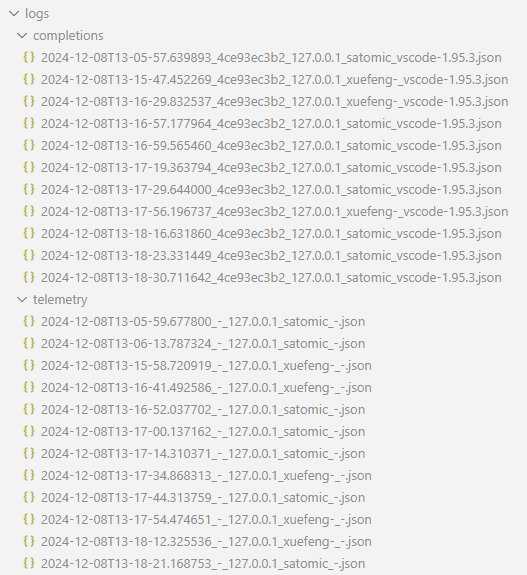
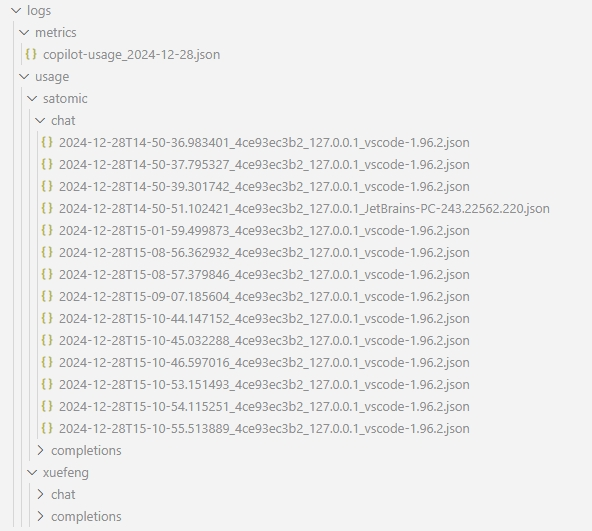
feature: Enhance proxy_addons.py to track usage metrics and save to separate files; refactor logging paths and update metrics handling

Changed region(s): [[0.0, 0.0, 0.9715, 0.9944]]

diff --git a/proxy_addons.py b/proxy_addons.py
@@ -56,6 +56,9 @@ class ProxyReqRspSaveToFile:
         self.loop = asyncio.get_event_loop()
         self.proxy_authorizations = {} 
         self.log_file_path = "logs"
+        self.usage_file_path = os.path.join(self.log_file_path, "usage")
+        self.metrics_file_path = os.path.join(self.log_file_path, "metrics")
+        self.current_date = datetime.utcnow().date()
         ctx.log.info("Initialized ProxyReqRspSaveToJson plugin")
 
     def requestheaders(self, flow: http.HTTPFlow):
@@ -86,6 +89,11 @@ class ProxyReqRspSaveToFile:
         asyncio.ensure_future(self.save_to_file(flow))
 
     async def save_to_file(self, flow: http.HTTPFlow):
+        # if "telemetry" not in flow.request.url:
+        #     print("completions=================================: ", flow.request.url)
+
+        self.current_date = datetime.utcnow().date()
+        self.metrics_file = os.path.join(self.metrics_file_path, f'copilot-usage_{self.current_date}.json')
 
         # Determine type, discard if not one of the two types
         request_type = None
@@ -112,6 +120,8 @@ class ProxyReqRspSaveToFile:
         headers_request = dict(flow.request.headers)
         editor_version = headers_request.get('editor-version', '-').replace('/', '-')
         vscode_machineid = headers_request.get('vscode-machineid', '-')[0:10]
+        request_content_dict = ContentHandler.to_dicts(content_request)
+        language = request_content_dict.get('extra', {}).get('language', 'unknown')
 
         log_entry = {
             'proxy-authorization': proxy_auth_info,
@@ -121,7 +131,7 @@ class ProxyReqRspSaveToFile:
                 'url': flow.request.url,
                 'method': flow.request.method,
                 'headers': headers_request,
-                'content': ContentHandler.to_dicts(content_request),
+                'content': request_content_dict,
             },
             'response': {
                 'status_code': flow.response.status_code,
@@ -131,7 +141,7 @@ class ProxyReqRspSaveToFile:
         }
 
         # Create directory if it doesn't exist
-        directory_path = os.path.join(self.log_file_path, username, request_type)
+        directory_path = os.path.join(self.usage_file_path, username, request_type)
         os.makedirs(directory_path, exist_ok=True)
 
         log_file_name = f'{directory_path}/{timestamp}_{vscode_machineid}_{client_connect_address}_{editor_version}.json'.replace(':', '-')
@@ -139,10 +149,74 @@ class ProxyReqRspSaveToFile:
         try:
             with open(log_file_name, "w", encoding='utf8') as log_file:
                 log_file.write(json.dumps(log_entry, indent=4, ensure_ascii=False))
+                self.update_and_save_metrics(request_type, username, editor_version, language)
             ctx.log.info(f"Log saved {log_file_name}")
         except Exception as e:
             ctx.log.error(f"Unable to save log to file: {e}")
             return
+
+    def update_and_save_metrics(self, request_type, username, editor_version, language):
+        current_date = datetime.utcnow().date()
+        if current_date != self.current_date:
+            self.current_date = current_date
+
+        # Load existing metrics if the file exists
+        if os.path.exists(self.metrics_file):
+            try:
+                with open(self.metrics_file, "r", encoding='utf8') as metrics_file:
+                    existing_metrics = json.load(metrics_file)
+                total_chat_turns = existing_metrics.get("total_chat_turns", 0)
+                total_completions_count = existing_metrics.get("total_completions_count", 0)
+                aggregated_metrics = existing_metrics.get("usage", {})
+            except Exception as e:
+                ctx.log.error(f"Unable to load existing metrics: {e}")
+                total_chat_turns = 0
+                total_completions_count = 0
+                aggregated_metrics = {}
+        else:
+            total_chat_turns = 0
+            total_completions_count = 0
+            aggregated_metrics = {}
+
+        if username not in aggregated_metrics:
+            aggregated_metrics[username] = {
+                "chat_turns": 0,
+                "completions_count": 0,
+                "chat": {},
+                "completions": {}
+            }
+
+        if request_type == "completions":
+            if editor_version not in aggregated_metrics[username]["completions"]:
+                aggregated_metrics[username]["completions"][editor_version] = {}
+            if language not in aggregated_metrics[username]["completions"][editor_version]:
+                aggregated_metrics[username]["completions"][editor_version][language] = 0
+            aggregated_metrics[username]["completions"][editor_version][language] += 1
+            aggregated_metrics[username]["completions_count"] += 1
+            total_completions_count += 1
+        else:
+            if editor_version not in aggregated_metrics[username]["chat"]:
+                aggregated_metrics[username]["chat"][editor_version] = 0
+            aggregated_metrics[username]["chat"][editor_version] += 1
+            aggregated_metrics[username]["chat_turns"] += 1
+            total_chat_turns += 1
+
+        metrics_summary = {
+            "day": str(self.current_date),
+            "total_chat_turns": total_chat_turns,
+            "total_completions_count": total_completions_count,
+            "usage": aggregated_metrics
+        }
+
+        # Create the metrics file if it does not exist
+        os.makedirs(self.metrics_file_path, exist_ok=True)
+
+        try:
+            with open(self.metrics_file, "w", encoding='utf8') as metrics_file:
+                metrics_file.write(json.dumps(metrics_summary, indent=4, ensure_ascii=False))
+            ctx.log.info(f"Metrics saved {self.metrics_file}")
+        except Exception as e:
+            ctx.log.error(f"Unable to save metrics to file: {e}")
 
 addons = [
     ProxyReqRspSaveToFile()

diff --git a/README.md b/README.md
@@ -10,8 +10,12 @@ This project is a proxy tool to capture and log HTTP requests and responses, spe
 - Added parsing of the content fields of request and response in completion
 
 2024-12-26
-- New: Read proxy authentication information (proxy_auth_info). If it contains ":", use the left part as the username directory, otherwise it is the username directly; and save the log to the corresponding subdirectory according to the URL containing "copilot-codex/completions" or "chat/completions", otherwise skip the record.
-- New: The log file name no longer contains proxy_auth_info.
+- Feature: Read proxy authentication information (proxy_auth_info). If it contains ":", use the left part as the username directory, otherwise it is the username directly; and save the log to the corresponding subdirectory according to the URL containing "copilot-codex/completions" or "chat/completions", otherwise skip the record.
+- Feature: The log file name no longer contains proxy_auth_info.
+
+2024-12-28
+- Feature: Enhance proxy_addons.py to track usage metrics and save to separate files; refactor logging paths and update metrics handling
+
 
 ## BEFORE YOU TRY THIS TOOL, PLEASE READ THE FOLLOWING WARNNING CAREFULLY
 - these are general guidelines for copilot block:
@@ -54,13 +58,15 @@ This project is a proxy tool to capture and log HTTP requests and responses, spe
         ![proxy](files/proxy.png)
     - for advanced features, set the proxy like this: `http://your_username@127.0.0.1:8080`, and add the `Proxy-Authorization` header with the value `your_username` (the username is `satomic` in the sample code).
         ![proxy_add_header](files/proxy_add_header.png)
-        in `settings.json`
+        or in `settings.json`
         ```json
-            "http.proxyAuthorization": "satomic",
-            "http.proxy": "http://127.0.0.1:8080"
+            "http.proxy": "http:satomic:<YOUR_BASIC_PWD>//127.0.0.1:8080"
         ```
 4. However, at this time, IDE will prompt certificate errors, so a [certificate needs to be installed](https://docs.mitmproxy.org/stable/concepts-certificates/). The certificate download requires access to [mitm.it](mitm.it), and the prerequisite for normal access is that mitmproxy is functioning normally. Therefore, before enabling the proxy, only requests that go through the proxy will return normal web pages.
-5. now you can use the Copilot to generate code, and the request and response will be saved in the `logs` folder. the `completions` folder will save the completions of the Copilot. the `telemetry` folder will save the telemetry of the Copilot.
+5. now you can use the Copilot to generate code, and the request and response will be saved in the `logs` folder. 
+    - The `metrics` folder stores daily usage statistics. 
+    - The `usage` folder is a subdirectory with the user name, which records the detailed data of `chat` and `completions` respectively.
+
 
 ## log samples
 
@@ -68,99 +74,138 @@ This project is a proxy tool to capture and log HTTP requests and responses, spe
 ![log_samples](files/log_samples.png)
 
 
+### usage log
+```json
+{
+    "day": "2024-12-28",
+    "total_chat_turns": 13,
+    "total_completions_count": 19,
+    "usage": {
+        "satomic": {
+            "chat_turns": 6,
+            "completions_count": 16,
+            "chat": {
+                "vscode-1.96.2": 6
+            },
+            "completions": {
+                "vscode-1.96.2": {
+                    "python": 2,
+                    "javascript": 3,
+                    "markdown": 11
+                }
+            }
+        },
+        "xuefeng": {
+            "chat_turns": 7,
+            "completions_count": 3,
+            "chat": {
+                "JetBrains-PC-243.22562.220": 6,
+                "vscode-1.96.2": 1
+            },
+            "completions": {
+                "JetBrains-PC-243.22562.220": {
+                    "python": 3
+                }
+            }
+        }
+    }
+}
+```
+
 
 ### `completions` log 
 
-`2024-12-08T13-05-57.639893_4ce93ec3b2_127.0.0.1_satomic_vscode-1.95.3.json`
-
 ```json
 {
-    "proxy-authorization": "satomic",
-    "timestamp": "2024-12-08T13:18:23.331449",
-    "proxy-time-consumed": "382.4ms",
+    "proxy-authorization": "satomic:123",
+    "timestamp": "2024-12-28T14:50:18.214725",
+    "proxy-time-consumed": "188.35ms",
     "request": {
         "url": "https://proxy.enterprise.githubcopilot.com/v1/engines/copilot-codex/completions",
         "method": "POST",
         "headers": {
-            "authorization": "Bearer tid=5e1e32dca6b1cccb036ab1bd2d7d444d;ol=679c1c3c27523244c3c3ad04ef88d2f0;exp=1733664598;sku=copilot_enterprise_seat;proxy-ep=proxy.enterprise.githubcopilot.com;st=dotcom;ssc=1;chat=1;cit=1;malfil=1;ccr=1;8kp=1;ip=183.212.229.191;asn=AS56046:fd1cc3e11a1f994287c361f4e01464ea88ced12ac102d593f99e0662724b9c97",
-            "x-request-id": "d4392923-fe05-4c6a-babc-37f66954bee6",
+            "authorization": "Bearer tid=5e1e32dca6b1cccb036ab1bd2d7d444d;ol=ea9395b9a9248c05ee6847cbd24355ed,fa25d2808d3f1461923caba5bbaa7673,679c1c3c27523244c3c3ad04ef88d2f0;exp=1735398336;sku=copilot_enterprise_seat;proxy-ep=proxy.enterprise.githubcopilot.com;st=dotcom;ssc=1;chat=1;cit=1;malfil=1;ccr=1;8kp=1;ip=156.59.13.4;asn=AS21859:f9c792ae49b6494b595fc62854ed0a10a78e624d849112f33114fefde749863b",
+            "x-request-id": "2e177ccd-029e-46f1-bf59-3d366bdb5e55",
             "openai-organization": "github-copilot",
-            "vscode-sessionid": "ea6d81ed-3ef8-4d7f-9094-0225bd5022071733632427208",
+            "vscode-sessionid": "d680c0d9-d9ef-43b5-a272-86ad27f0b04e1735381508063",
[1 lines of base64/hex data omitted]
-            "editor-version": "vscode/1.95.3",
-            "editor-plugin-version": "copilot/1.248.0",
-            "copilot-language-server-version": "1.248.0",
+            "x-github-api-version": "2024-12-15",
+            "editor-version": "vscode/1.96.2",
+            "editor-plugin-version": "copilot/1.254.0",
+            "copilot-language-server-version": "1.254.0",
             "annotations-enabled": "true",
             "code-quote-enabled": "true",
             "openai-intent": "copilot-ghost",
             "content-type": "application/json",
-            "user-agent": "GithubCopilot/1.248.0",
-            "content-length": "548",
+            "user-agent": "GithubCopilot/1.254.0",
+            "content-length": "306",
             "accept": "*/*",
             "accept-encoding": "gzip,deflate,br"
         },
-        "content": "{\"prompt\":\"[]: # Path: readme.md\\n# Copilot Proxy Insight\\n\\nThis project is a proxy tool to capture and log HTTP requests and responses, specifically designed to work with GitHub Copilot.\\n\\n## Features\\n\\n- Captures HTTP requests and responses\\n- Logs request and response details to files\\n- Supports basic authentication\\n\\n## How to Run\",\"suffix\":\"\",\"max_tokens\":500,\"temperature\":0,\"top_p\":1,\"n\":1,\"stop\":[\"\\n\\n\\n\"],\"stream\":true,\"extra\":{\"language\":\"markdown\",\"next_indent\":0,\"trim_by_indentation\":true,\"prompt_tokens\":67,\"suffix_tokens\":0}}"
+        "content": {
+            "prompt": "# Path: tryit.py\n\n\n\ndef add(x, y):\n    return x + y",
+            "suffix": "",
+            "max_tokens": 500,
+            "temperature": 0,
+            "top_p": 1,
+            "n": 1,
+            "stop": [
+                "\n"
+            ],
+            "nwo": "satomic/copilot-proxy-insight",
+            "stream": true,
+            "extra": {
+                "language": "python",
+                "next_indent": 0,
+                "trim_by_indentation": true,
+                "prompt_tokens": 18,
+                "suffix_tokens": 0
+            }
+        }
     },
     "response": {
         "status_code": 200,
         "headers": {
-            "azureml-model-deployment": "d169-20240925214105",
+            "azureml-model-deployment": "d071-20241226110228",
             "content-security-policy": "default-src 'none'; sandbox",
             "content-type": "text/event-stream",
-            "openai-processing-ms": "41.1556",
+            "openai-processing-ms": "33.6402",
             "strict-transport-security": "max-age=31536000",
-            "x-request-id": "d4392923-fe05-4c6a-babc-37f66954bee6",
-            "content-length": "367",
-            "date": "Sun, 08 Dec 2024 13:18:23 GMT",
+            "x-request-id": "2e177ccd-029e-46f1-bf59-3d366bdb5e55",
+            "content-length": "356",
+            "date": "Sat, 28 Dec 2024 14:50:18 GMT",
             "x-github-backend": "Kubernetes",
-            "x-github-request-id": "793D:3AE21:3087E1:352BF1:67559C9E"
+            "x-github-request-id": "8566:18E3C2:19397A5:1A0ECB8:67700FE2"
         },
-        "content": "data: {\"id\":\"cmpl-AcBSxNRroE6mLsEEz9UOfcJPcyGMK\",\"created\":1733663903,\"model\":\"gpt-35-turbo\",\"choices\":[{\"index\":0,\"finish_reason\":null,\"logprobs\":null,\"p\":\"aaaaaaa\"}]}\n\ndata: {\"id\":\"cmpl-AcBSxNRroE6mLsEEz9UOfcJPcyGMK\",\"created\":1733663903,\"model\":\"gpt-35-turbo\",\"choices\":[{\"text\":\"\\n\",\"index\":0,\"finish_reason\":\"stop\",\"logprobs\":null,\"p\":\"aaaaaa\"}]}\n\ndata: [DONE]\n\n"
+        "content": [
+            {
+                "id": "cmpl-AjSQstOuqLSedY7J3Vg6Op6Khvcnl",
+                "created": 1735397418,
+                "model": "gpt-35-turbo",
+                "choices": [
+                    {
+                        "index": 0,
+                        "finish_reason": null,
+                        "logprobs": null,
+                        "p": "aaaaaaa"
+                    }
+                ]
+            },
+            {
+                "id": "cmpl-AjSQstOuqLSedY7J3Vg6Op6Khvcnl",
+                "created": 1735397418,
+                "model": "gpt-35-turbo",
+                "choices": [
+                    {
+                        "index": 0,
+                        "finish_reason": "stop",
+                        "logprobs": null,
+                        "p": "aaaaaaa"
+                    }
+                ]
+            },
+            ""
+        ]
     }
 }
 ```
-
-### `telemetry` log 
-
-
-`2024-12-08T13-05-59.677800_-_127.0.0.1_satomic_-.json`
-
-
-```json
-{
-    "proxy-authorization": "satomic",
-    "timestamp": "2024-12-08T13:28:23.121297",
-    "proxy-time-consumed": "530.51ms",
-    "request": {
-        "url": "https://telemetry.enterprise.githubcopilot.com/telemetry",
-        "method": "POST",
-        "headers": {
-            "content-type": "application/json",
-            "user-agent": "GithubCopilot/1.248.0",
-            "content-length": "9732",
-            "accept": "*/*",
-            "accept-encoding": "gzip,deflate,br"
-        },
-        "content": "[{\"time\":\"2024-12-08T13:28:07.023Z\",\"iKey\":\"7d7048df-6dd0-4048-bb23-b716c1461f8f\",\"name\":\"Microsoft.ApplicationInsights.7d7048df6dd04048bb23b716c1461f8f.Event\",\"tags\":{\"ai.session.id\":\"ea6d81ed-3ef8-4d7f-9094-0225bd5022071733632427208\",\"ai.user.id\":\"5e1e32dca6b1cccb036ab1bd2d7d444d\",\"ai.cloud.roleInstance\":\"REDACTED\",\"ai.device.osVersion\":\"Windows_NT 10.0.26100\",\"ai.device.osArchitecture\":\"x64\",\"ai.device.osPlatform\":\"win32\",\"ai.cloud.role\":\"Web\",\"ai.application.ver\":\"1.248.0\",\"ai.internal.sdkVersion\":\"javascript:3.3.4\"},\"data\":{\"baseType\":\"EventData\",\"baseData\":{\"ver\":2,\"name\":\"copilot/request.sent\",\"properties\":{\"endpoint\":\"completions\",\"engineName\":\"copilot-codex\",\"uiKind\":\"ghostText\",\"request_option_max_tokens\":\"500\",\"request_option_temperature\":\"0\",\"request_option_top_p\":\"1\",\"request_option_n\":\"1\",\"request_option_stop\":\"[\\\"\\\\n\\\\n\\\\n\\\"]\",\"request_option_stream\":\"true\",\"request_option_extra\":\"{\\\"language\\\":\\\"markdown\\\",\\\"next_indent\\\":0,\\\"trim_by_indentation\\\":true,\\\"prompt_tokens\\\":359,\\\"suffix_tokens\\\":0}\",\"headerRequestId\":\"25fa5824-5df2-4d24-80d5-9c3288365dd3\",\"github_copilot_inlineSuggest_enable\":\"true\",\"copilot_build\":\"1246\",\"copilot_buildType\":\"prod\",\"copilot_trackingId\":\"5e1e32dca6b1cccb036ab1bd2d7d444d\",\"organizations_list\":\"679c1c3c27523244c3c3ad04ef88d2f0\",\"enterprise_list\":\"208076\",\"sku\":\"copilot_enterprise_seat\",\"editor_version\":\"vscode/1.95.3\",\"editor_plugin_version\":\"copilot/1.248.0\",\"client_machineid\":\"4ce93ec3b250003c9580aba5d1a71685fe7df281ac090fa58018e5b6a3017bf9\",\"client_sessionid\":\"ea6d81ed-3ef8-4d7f-9094-0225bd5022071733632427208\",\"copilot_version\":\"copilot/1.248.0\",\"runtime_version\":\"node/20.18.0\",\"common_extname\":\"copilot\",\"common_extversion\":\"1.248.0\",\"common_vscodeversion\":\"vscode/1.95.3\",\"fetcher\":\"HelixFetcher\",\"proxy_enabled\":\"true\",\"proxy_auth\":\"true\",\"proxy_kerberos_spn\":\"false\",\"reject_unauthorized\":\"true\",\"VSCode.ABExp.Features\":\"aa_t_chat;account-aacf;copilotcppheaders;livesharecontinuousaa;mindaroBinariesVersion;portForwardingServiceEnabled-development;portForwardingServiceEnabled-production;portForwardingServiceEnabled-staging;shouldUseGrpcService\",\"abexp.assignmentcontext\":\"vsliv368:30146709;vspor879:30202332;vspor708:30202333;vspor363:30204092;binariesv615:30325510;vsaa593cf:30376535;c4g48928:30535728;aa_t_chat:31080850;vsc_trt_9033:31086482;\",\"unique_id\":\"d0526136-a6b2-4196-873e-31f1e8fdf595\",\"common_os\":\"win32\",\"common_platformversion\":\"10.0.26100\",\"common_vscodemachineid\":\"4ce93ec3b250003c9580aba5d1a71685fe7df281ac090fa58018e5b6a3017bf9\",\"common_vscodesessionid\":\"ea6d81ed-3ef8-4d7f-9094-0225bd5022071733632427208\",\"common_uikind\":\"desktop\",\"common_remotename\":\"none\",\"common_isnewappinstall\":\"\"},\"measurements\":{\"promptCharLen\":1487,\"timeSinceIssuedMs\":1,\"current_time\":1733664487}}}},{\"time\":\"2024-12-08T13:28:08.912Z\",\"iKey\":\"7d7048df-6dd0-4048-bb23-b716c1461f8f\",\"name\":\"Microsoft.ApplicationInsights.7d7048df6dd04048bb23b716c1461f8f.Event\",\"tags\":{\"ai.session.id\":\"ea6d81ed-3ef8-4d7f-9094-0225bd5022071733632427208\",\"ai.user.id\":\"5e1e32dca6b1cccb036ab1bd2d7d444d\",\"ai.cloud.roleInstance\":\"REDACTED\",\"ai.device.osVersion\":\"Windows_NT 10.0.26100\",\"ai.device.osArchitecture\":\"x64\",\"ai.device.osPlatform\":\"win32\",\"ai.cloud.role\":\"Web\",\"ai.application.ver\":\"1.248.0\",\"ai.internal.sdkVersion\":\"javascript:3.3.4\"},\"data\":{\"baseType\":\"EventData\",\"baseData\":{\"ver\":2,\"name\":\"copilot/networking.cancelRequest\",\"properties\":{\"headerRequestId\":\"25fa5824-5df2-4d24-80d5-9c3288365dd3\",\"github_copilot_inlineSuggest_enable\":\"true\",\"copilot_build\":\"1246\",\"copilot_buildType\":\"prod\",\"copilot_trackingId\":\"5e1e32dca6b1cccb036ab1bd2d7d444d\",\"organizations_list\":\"679c1c3c27523244c3c3ad04ef88d2f0\",\"enterprise_list\":\"208076\",\"sku\":\"copilot_enterprise_seat\",\"editor_version\":\"vscode/1.95.3\",\"editor_plugin_version\":\"copilot/1.248.0\",\"client_machineid\":\"4ce93ec3b250003c9580aba5d1a71685fe7df281ac090fa58018e5b6a3017bf9\",\"client_sessionid\":\"ea6d81ed-3ef8-4d7f-9094-0225bd5022071733632427208\",\"copilot_version\":\"copilot/1.248.0\",\"runtime_version\":\"node/20.18.0\",\"common_extname\":\"copilot\",\"common_extversion\":\"1.248.0\",\"common_vscodeversion\":\"vscode/1.95.3\",\"fetcher\":\"HelixFetcher\",\"proxy_enabled\":\"true\",\"proxy_auth\":\"true\",\"proxy_kerberos_spn\":\"false\",\"reject_unauthorized\":\"true\",\"VSCode.ABExp.Features\":\"aa_t_chat;account-aacf;copilotcppheaders;livesharecontinuousaa;mindaroBinariesVersion;portForwardingServiceEnabled-development;portForwardingServiceEnabled-production;portForwardingServiceEnabled-staging;shouldUseGrpcService\",\"abexp.assignmentcontext\":\"vsliv368:30146709;vspor879:30202332;vspor708:30202333;vspor363:30204092;binariesv615:30325510;vsaa593cf:30376535;c4g48928:30535728;aa_t_chat:31080850;vsc_trt_9033:31086482;\",\"unique_id\":\"025077aa-c960-4011-8424-8377d6e24476\",\"common_os\":\"win32\",\"common_platformversion\":\"10.0.26100\",\"common_vscodemachineid\":\"4ce93ec3b250003c9580aba5d1a71685fe7df281ac090fa58018e5b6a3017bf9\",\"common_vscodesessionid\":\"ea6d81ed-3ef8-4d7f-9094-0225bd5022071733632427208\",\"common_uikind\":\"desktop\",\"common_remotename\":\"none\",\"common_isnewappinstall\":\"\"},\"measurements\":{\"timeSinceIssuedMs\":2,\"current_time\":1733664488}}}},{\"time\":\"2024-12-08T13:28:08.914Z\",\"iKey\":\"7d7048df-6dd0-4048-bb23-b716c1461f8f\",\"name\":\"Microsoft.ApplicationInsights.7d7048df6dd04048bb23b716c1461f8f.Event\",\"tags\":{\"ai.session.id\":\"ea6d81ed-3ef8-4d7f-9094-0225bd5022071733632427208\",\"ai.user.id\":\"5e1e32dca6b1cccb036ab1bd2d7d444d\",\"ai.cloud.roleInstance\":\"REDACTED\",\"ai.device.osVersion\":\"Windows_NT 10.0.26100\",\"ai.device.osArchitecture\":\"x64\",\"ai.device.osPlatform\":\"win32\",\"ai.cloud.role\":\"Web\",\"ai.application.ver\":\"1.248.0\",\"ai.internal.sdkVersion\":\"javascript:3.3.4\"},\"data\":{\"baseType\":\"EventData\",\"baseData\":{\"ver\":2,\"name\":\"copilot/ghostText.canceled\",\"properties\":{\"headerRequestId\":\"25fa5824-5df2-4d24-80d5-9c3288365dd3\",\"github_copilot_inlineSuggest_enable\":\"true\",\"copilot_build\":\"1246\",\"copilot_buildType\":\"prod\",\"copilot_trackingId\":\"5e1e32dca6b1cccb036ab1bd2d7d444d\",\"organizations_list\":\"679c1c3c27523244c3c3ad04ef88d2f0\",\"enterprise_list\":\"208076\",\"sku\":\"copilot_enterprise_seat\",\"languageId\":\"markdown\",\"beforeCursorWhitespace\":\"false\",\"afterCursorWhitespace\":\"true\",\"promptChoices\":\"{\\\"used\\\":{\\\"BeforeCursor\\\":351,\\\"PathMarker\\\":8},\\\"unused\\\":{\\\"LanguageMarker\\\":7},\\\"usedCounts\\\":{\\\"BeforeCursor\\\":22,\\\"PathMarker\\\":1},\\\"unusedCounts\\\":{\\\"LanguageMarker\\\":1}}\",\"promptBackground\":\"{\\\"used\\\":[],\\\"unused\\\":[]}\",\"neighborSource\":\"[[\\\"opentabs\\\",[]]]\",\"gitRepoInformation\":\"unavailable\",\"engineName\":\"copilot-codex\",\"isMultiline\":\"true\",\"blockMode\":\"server\",\"isCycling\":\"false\",\"editor_version\":\"vscode/1.95.3\",\"editor_plugin_version\":\"copilot/1.248.0\",\"client_machineid\":\"4ce93ec3b250003c9580aba5d1a71685fe7df281ac090fa58018e5b6a3017bf9\",\"client_sessionid\":\"ea6d81ed-3ef8-4d7f-9094-0225bd5022071733632427208\",\"copilot_version\":\"copilot/1.248.0\",\"runtime_version\":\"node/20.18.0\",\"common_extname\":\"copilot\",\"common_extversion\":\"1.248.0\",\"common_vscodeversion\":\"vscode/1.95.3\",\"fetcher\":\"HelixFetcher\",\"proxy_enabled\":\"true\",\"proxy_auth\":\"true\",\"proxy_kerberos_spn\":\"false\",\"reject_unauthorized\":\"true\",\"VSCode.ABExp.Features\":\"aa_t_chat;account-aacf;copilotcppheaders;livesharecontinuousaa;mindaroBinariesVersion;portForwardingServiceEnabled-development;portForwardingServiceEnabled-production;portForwardingServiceEnabled-staging;shouldUseGrpcService\",\"abexp.assignmentcontext\":\"vsliv368:30146709;vspor879:30202332;vspor708:30202333;vspor363:30204092;binariesv615:30325510;vsaa593cf:30376535;c4g48928:30535728;aa_t_chat:31080850;vsc_trt_9033:31086482;\",\"fileType\":\"markdown\",\"timeBucket\":\"4ce93ec3b250003c9580aba5d1a71685fe7df281ac090fa58018e5b6a3017bf9\",\"unique_id\":\"3f9d62d3-2c9f-4644-bde7-94335a2fc3fe\",\"endpoint\":\"completions\",\"uiKind\":\"ghostText\",\"temperature\":\"0\",\"n\":\"1\",\"stop\":\"unset\",\"logit_bias\":\"null\",\"reason\":\"network request aborted\",\"cancelledNetworkRequest\":\"true\",\"common_os\":\"win32\",\"common_platformversion\":\"10.0.26100\",\"common_vscodemachineid\":\"4ce93ec3b250003c9580aba5d1a71685fe7df281ac090fa58018e5b6a3017bf9\",\"common_vscodesessionid\":\"ea6d81ed-3ef8-4d7f-9094-0225bd5022071733632427208\",\"common_uikind\":\"desktop\",\"common_remotename\":\"none\",\"common_isnewappinstall\":\"\"},\"measurements\":{\"promptCharLen\":1487,\"promptEndPos\":1486,\"documentLength\":1500,\"delayMs\":0,\"promptComputeTimeMs\":6,\"contextualFilterScore\":0.6060606231031178,\"timeSinceIssuedMs\":1975,\"current_time\":1733664486}}}},{\"time\":\"2024-12-08T13:28:15.190Z\",\"iKey\":\"7d7048df-6dd0-4048-bb23-b716c1461f8f\",\"name\":\"Microsoft.ApplicationInsights.7d7048df6dd04048bb23b716c1461f8f.Event\",\"tags\":{\"ai.session.id\":\"ea6d81ed-3ef8-4d7f-9094-0225bd5022071733632427208\",\"ai.user.id\":\"5e1e32dca6b1cccb036ab1bd2d7d444d\",\"ai.cloud.roleInstance\":\"REDACTED\",\"ai.device.osVersion\":\"Windows_NT 10.0.26100\",\"ai.device.osArchitecture\":\"x64\",\"ai.device.osPlatform\":\"win32\",\"ai.cloud.role\":\"Web\",\"ai.application.ver\":\"1.248.0\",\"ai.internal.sdkVersion\":\"javascript:3.3.4\"},\"data\":{\"baseType\":\"EventData\",\"baseData\":{\"ver\":2,\"name\":\"copilot/prompt.stat\",\"properties\":{\"headerRequestId\":\"2371b6f1-56a6-4910-89d9-cf28edd34d58\",\"copilot_trackingId\":\"5e1e32dca6b1cccb036ab1bd2d7d444d\",\"sku\":\"copilot_enterprise_seat\",\"organizations_list\":\"679c1c3c27523244c3c3ad04ef88d2f0\",\"enterprise_list\":\"208076\",\"unique_id\":\"b1f1a3c9-7572-4b25-abea-db755c0b9f5f\",\"common_extname\":\"copilot\",\"common_extversion\":\"1.248.0\",\"common_vscodeversion\":\"vscode/1.95.3\",\"common_os\":\"win32\",\"common_platformversion\":\"10.0.26100\",\"common_vscodemachineid\":\"4ce93ec3b250003c9580aba5d1a71685fe7df281ac090fa58018e5b6a3017bf9\",\"common_vscodesessionid\":\"ea6d81ed-3ef8-4d7f-9094-0225bd5022071733632427208\",\"common_uikind\":\"desktop\",\"common_remotename\":\"none\",\"common_isnewappinstall\":\"\"},\"measurements\":{}}}}]"
-    },
-    "response": {
-        "status_code": 200,
-        "headers": {
-            "content-security-policy": "default-src 'none'; sandbox",
-            "content-type": "application/json; charset=utf-8",
-            "date": "Sun, 08 Dec 2024 13:28:23 GMT",
-            "strict-transport-security": "max-age=31536000, max-age=31536000",
-            "x-content-type-options": "nosniff, nosniff",
-            "x-frame-options": "DENY",
-            "x-xss-protection": "0",
-            "content-length": "62",
-            "x-github-backend": "Kubernetes",
-            "x-github-request-id": "7D34:2048F4:103A49D:193BC43:67559EE8",
-            "server": "github.com"
-        },
-        "content": "{\"itemsReceived\":3,\"itemsAccepted\":3,\"appId\":null,\"errors\":[]}"
-    }
-}
-```
-
-
